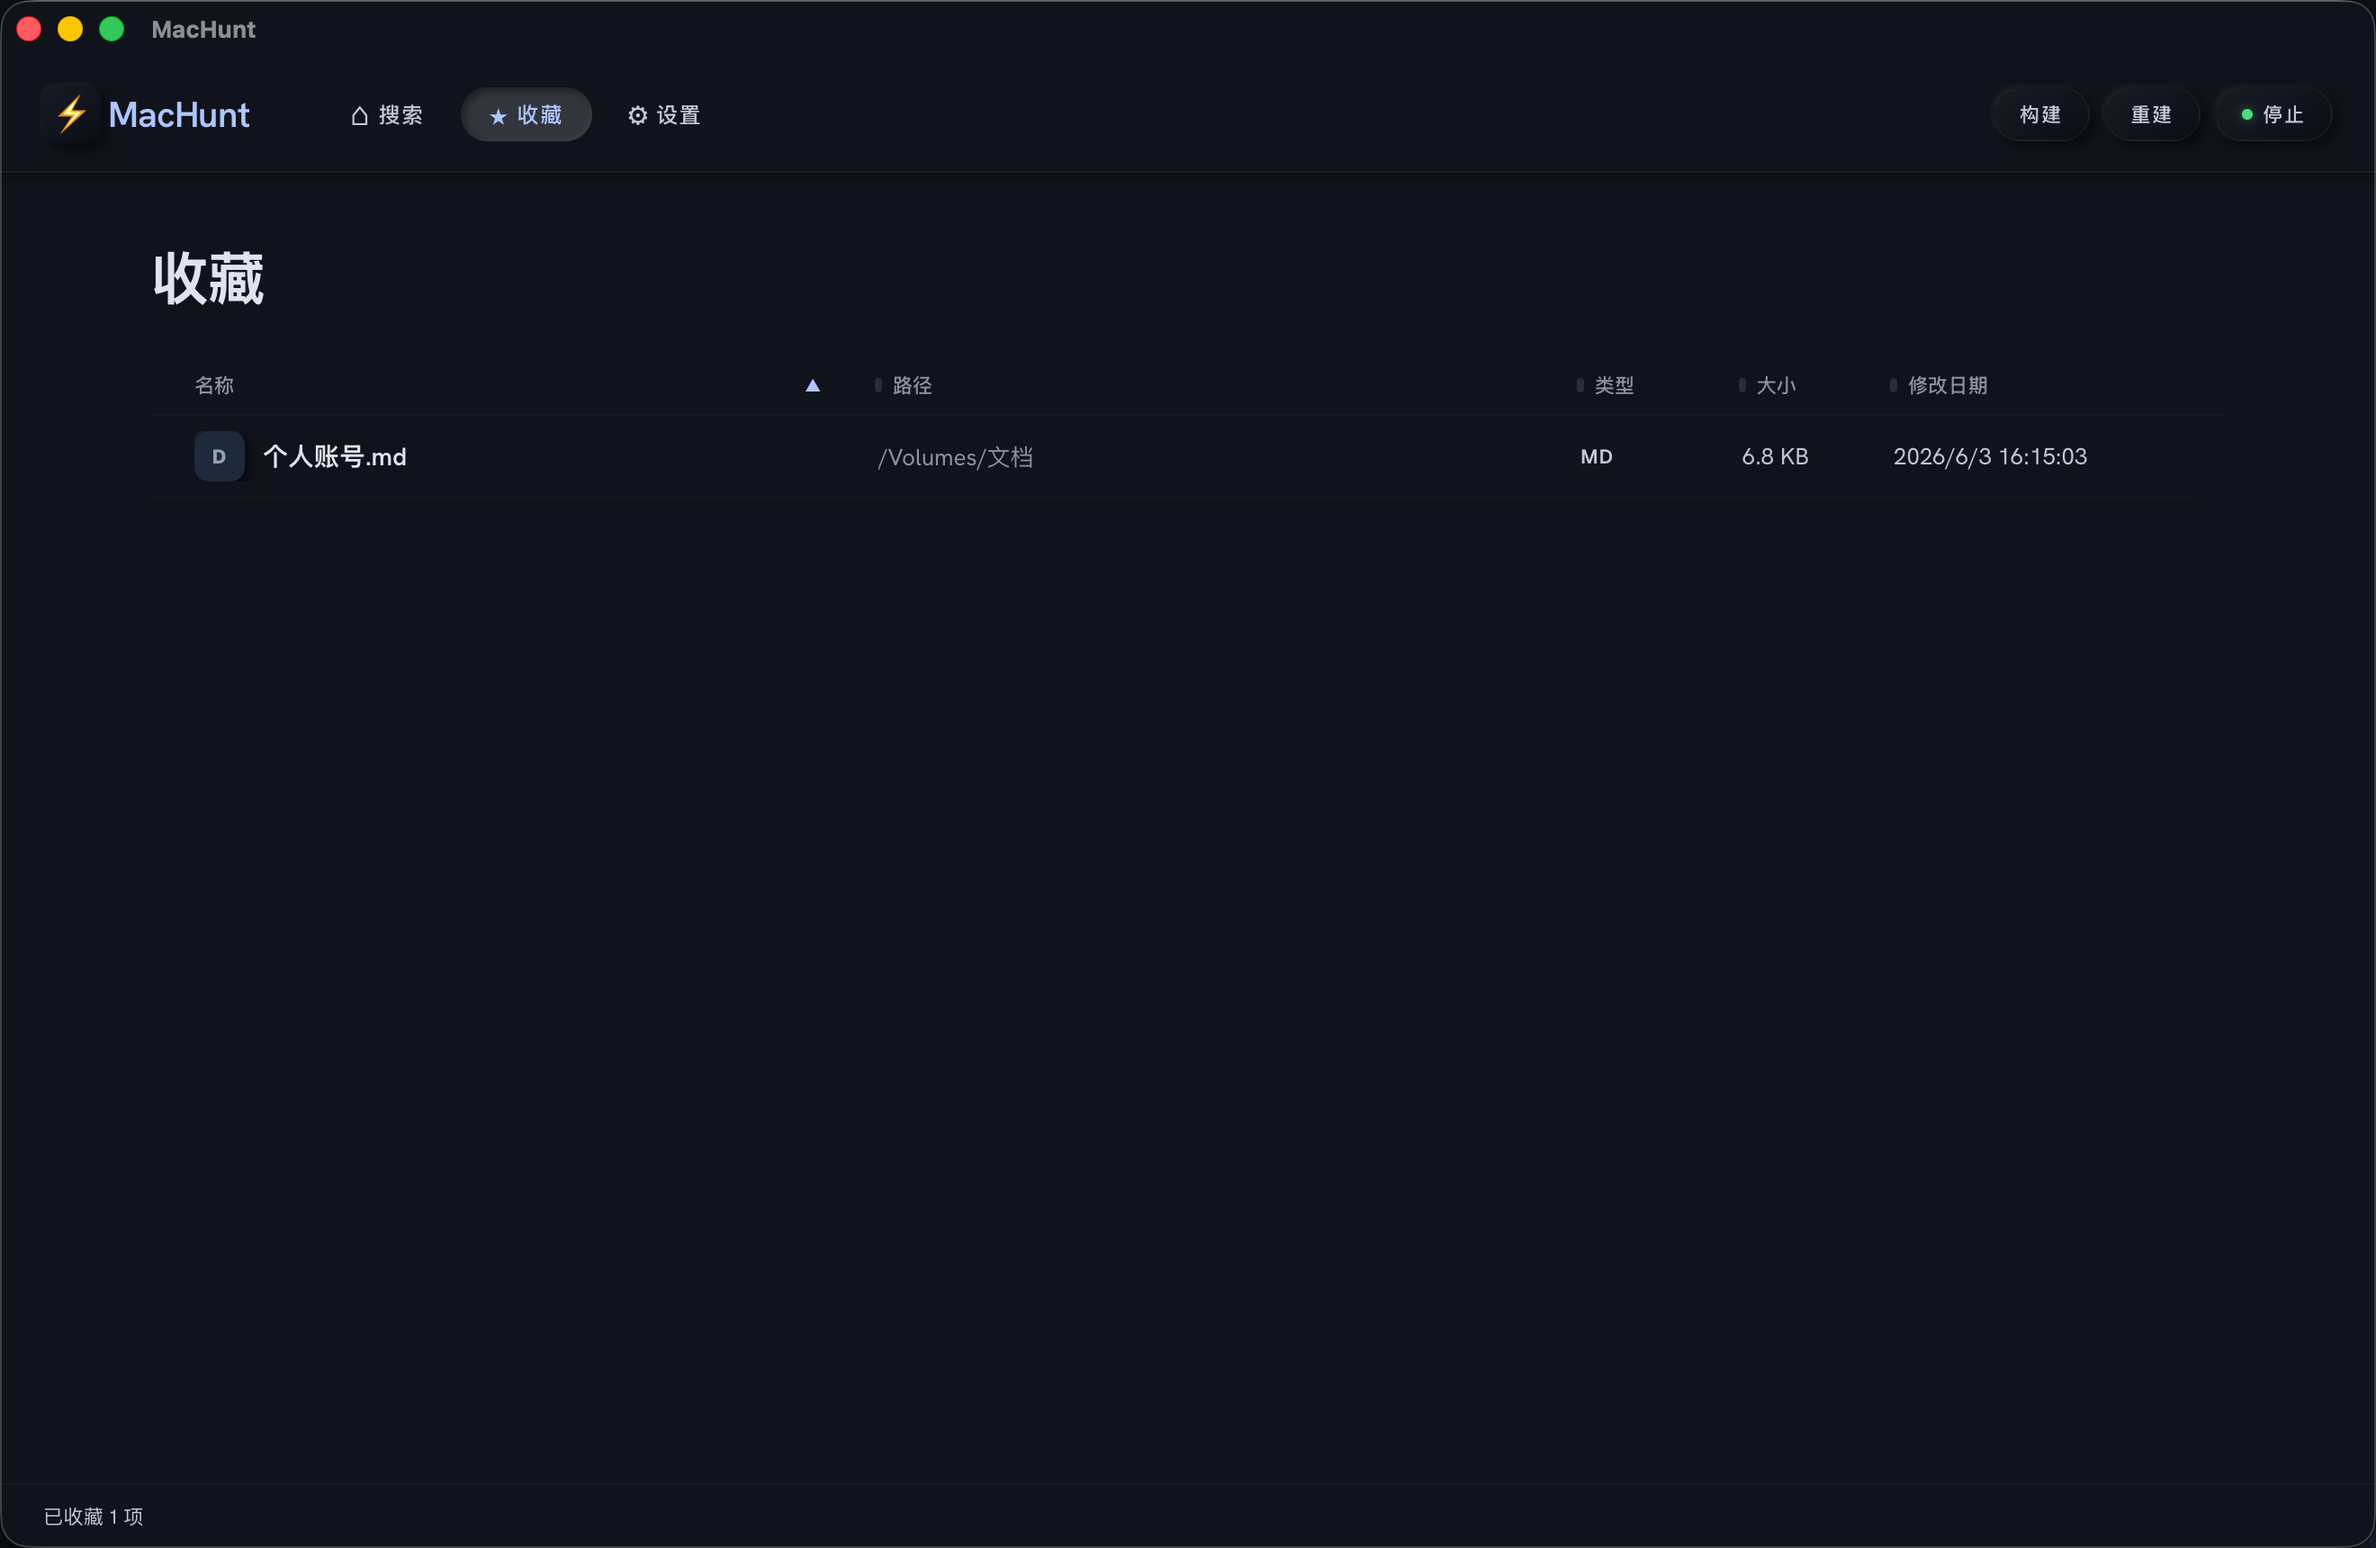
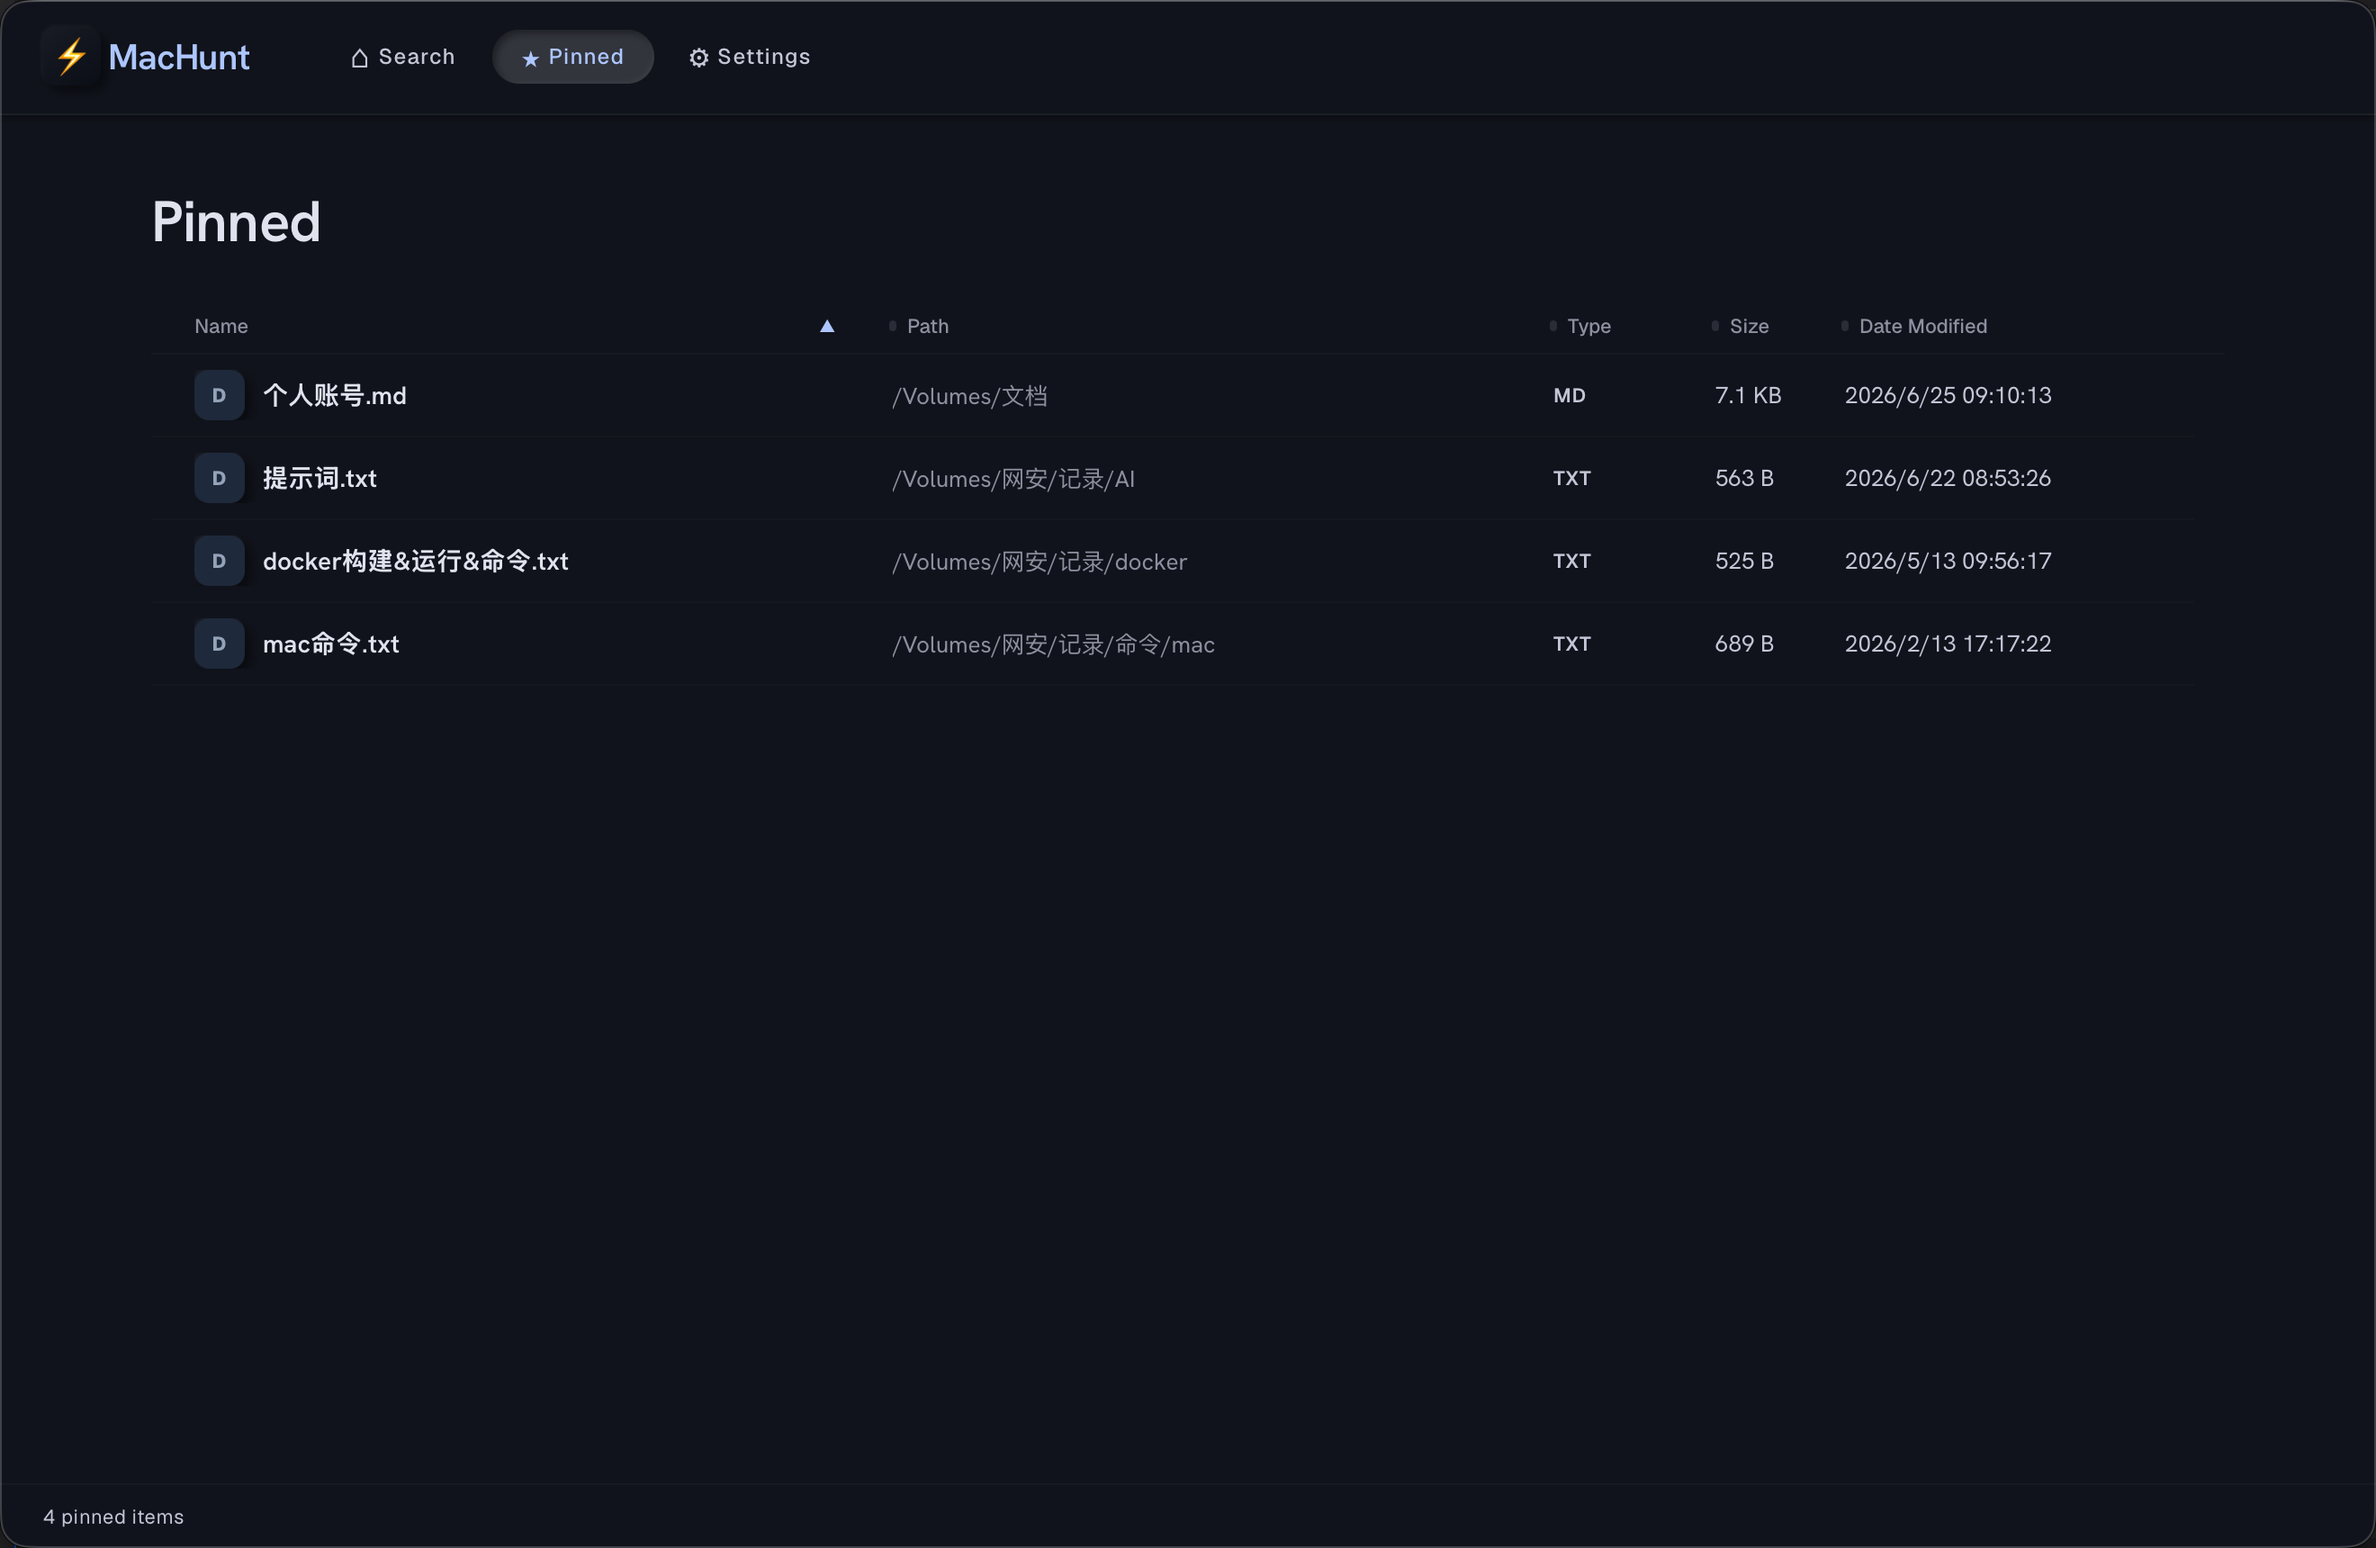
更新Readme、截图

diff --git a/README.md b/README.md
@@ -45,17 +45,17 @@ MacHunt scans your entire filesystem into a local SQLite FTS5 index. CLI searche
 <thead>
 <tr>
 <th width="50%" align="center">Quick Look Preview</th>
-<th width="50%" align="center">Path Filter & Context Menu</th>
+<th width="50%" align="center">Settings</th>
 </tr>
 </thead>
 <tbody>
 <tr>
 <td align="center"><a target="_blank" rel="noopener noreferrer" href="./screenshots/quicklook.png"><img src="./screenshots/quicklook.png" alt="Quick Look" width="100%" style="max-width: 100%;"></a></td>
-<td align="center"><a target="_blank" rel="noopener noreferrer" href="./screenshots/context-menu.png"><img src="./screenshots/context-menu.png" alt="Context Menu" width="100%" style="max-width: 100%;"></a></td>
+<td align="center"><a target="_blank" rel="noopener noreferrer" href="./screenshots/settings.png"><img src="./screenshots/settings.png" alt="Settings" width="100%" style="max-width: 100%;"></a></td>
 </tr>
 <tr>
 <td align="center"><strong>Space-triggered native Quick Look</strong></td>
-<td align="center"><strong>Finder picker, right-click actions</strong></td>
+<td align="center"><strong>Settings</strong></td>
 </tr>
 </tbody>
 </table>
